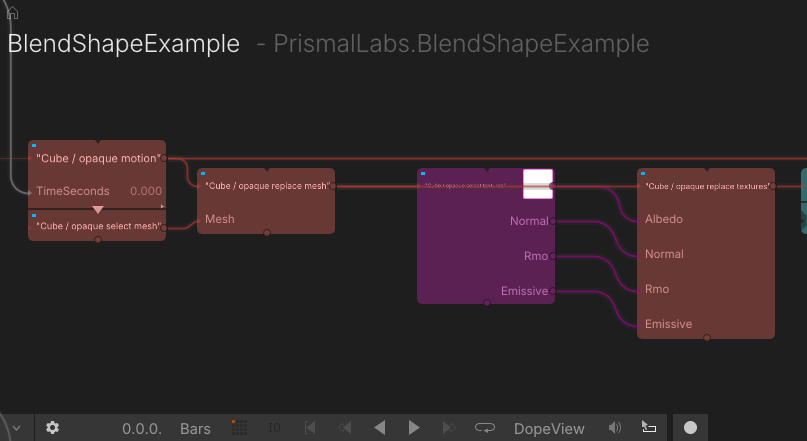
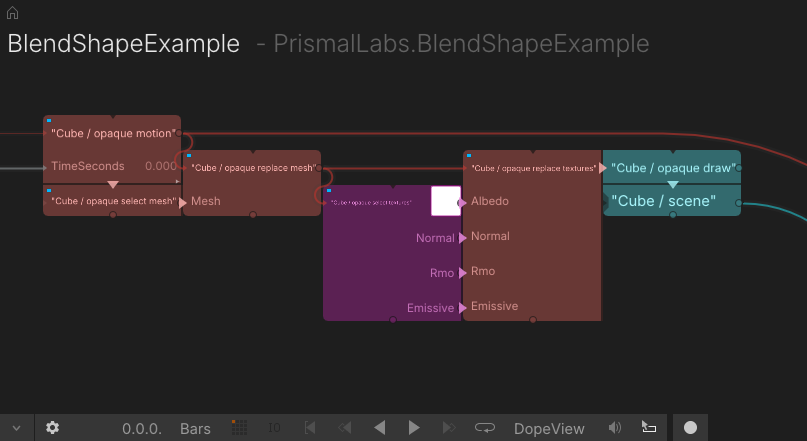
Use the grid-aligned portless BlendShapeExample home as the export template

Changed region(s): [[0.0, 0.2358, 1.0, 0.7959], [0.0, 0.0, 0.031, 0.0295]]

diff --git a/tests/test_home_layout.py b/tests/test_home_layout.py
@@ -5,6 +5,7 @@ from pathlib import Path
 import sys
 import tempfile
 import unittest
+from unittest.mock import patch, call
 
 sys.path.insert(0, str(Path(__file__).resolve().parents[1] / 'blender_tixl_bridge' / 'source'))
 from blend_sync_graph import generate
@@ -13,6 +14,21 @@ from blend_sync_layout import layout_home
 
 
 class HomeLayoutTest(unittest.TestCase):
+    def test_portless_project_opens_its_internal_output(self):
+        import blend_sync
+        with tempfile.TemporaryDirectory() as directory:
+            root = Path(directory)
+            symbols = root / 'PortlessHome' / 'Symbols'
+            symbols.mkdir(parents=True)
+            (symbols / 'PortlessHome.t3').write_text(json.dumps({
+                'Inputs': [], 'Children': [{'Id': 'internal-output', 'Name': 'Output target',
+                                           'SymbolName': 'Lib.image.generate.basic.RenderTarget'}]}))
+            with patch.object(blend_sync, 'TIXL_PROJECT', root / 'Operators'), \
+                    patch.object(blend_sync, 'bridge_call') as bridge:
+                blend_sync.open_project('PortlessHome')
+                self.assertEqual(bridge.call_args_list, [
+                    call('openProject', name='PortlessHome'), call('pin', childId='internal-output')])
+
     def test_dynamic_lanes_and_saved_layout(self):
         for count, glass, clips_per_world in ((1, False, 1), (4, False, 1), (7, True, 6)):
             with self.subTest(worlds=count, glass=glass), tempfile.TemporaryDirectory() as directory:
@@ -52,9 +68,26 @@ class HomeLayoutTest(unittest.TestCase):
                     self.assertEqual(load['Y'], motion['Y'])
                     if i:
                         self.assertGreaterEqual(load['Y'] - named[f'World {i-1} / opaque load']['Y'],
-                                                420 + (180 if glass else 0))
+                                                420 + (210 if glass else 0))
                     if glass:
-                        self.assertEqual(named[prefix + 'glass load']['Y'] - load['Y'], 180)
+                        self.assertEqual(named[prefix + 'glass load']['Y'] - load['Y'], 210)
+                self.assertEqual(home['Inputs'], [])
+                self.assertFalse(home.get('Outputs'))
+                self.assertEqual(ui['InputUis'], [])
+                self.assertEqual(ui['OutputUis'], [])
+                zero = '00000000-0000-0000-0000-000000000000'
+                self.assertFalse(any(zero in (edge['SourceParentOrChildId'],
+                                              edge['TargetParentOrChildId'])
+                                     for edge in home['Connections']))
+                resolution = next(child for child in home['Children'] if child['Name'] == 'Resolution')
+                self.assertEqual(sum(edge['SourceParentOrChildId'] == resolution['Id']
+                                     for edge in home['Connections']), 2)
+                for position in positions.values():
+                    self.assertEqual(position['X'] % 140, 0)
+                    self.assertEqual(position['Y'] % 35, 0)
+                source = path.with_suffix('.cs').read_text()
+                self.assertNotIn('[Input(', source)
+                self.assertNotIn('[Output(', source)
                 original = copy.deepcopy(home)
                 layout_home(home, ui, json.loads(files[3].read_text()),
                             json.loads(files[0].read_text())['Id'])

diff --git a/blender_tixl_bridge/source/blend_sync_project.py b/blender_tixl_bridge/source/blend_sync_project.py
@@ -595,6 +595,44 @@ def _editable_scene(graph: dict, ui: dict, source: str, name: str) -> tuple[dict
     return scene, scene_ui, scene_source
 
 
+def _make_portless_home(home: dict, ui: dict) -> None:
+    """Keep resolution inside the home; only generated import symbols expose ports."""
+    zero = "00000000-0000-0000-0000-000000000000"
+    template = json.loads((Path(__file__).resolve().parents[1] / "templates"
+                           / "home_resolution.json").read_text(encoding="utf-8"))
+    child = copy.deepcopy(template["child"])
+    child["Id"] = str(uuid.uuid5(uuid.NAMESPACE_URL, home["Id"] + "/resolution"))
+    width, height = template["default_resolution"]
+    for value in child["InputValues"]:
+        value["Value"] = width if value["Id"] == "579e72d6-638e-4b17-bb4e-88a55e3a1d4d" else height
+    input_ids = {item["Id"] for item in home.get("Inputs", [])}
+    connections = []
+    for edge in home["Connections"]:
+        if edge["TargetParentOrChildId"] == zero:
+            continue
+        if edge["SourceParentOrChildId"] == zero:
+            if edge["SourceSlotId"] not in input_ids:
+                raise ValueError("Unknown home input while creating portless home")
+            edge = {**edge, "SourceParentOrChildId": child["Id"],
+                    "SourceSlotId": template["output_slot"]}
+        connections.append(edge)
+    resolution_slot = "03749b41-cc3c-4f38-aea6-d7cea19fc073"
+    for target in home["Children"]:
+        if not target["SymbolName"].endswith(".RenderTarget"):
+            continue
+        if not any(edge["TargetParentOrChildId"] == target["Id"]
+                   and edge["TargetSlotId"] == resolution_slot for edge in connections):
+            connections.append(_connection(child["Id"], template["output_slot"],
+                                           target["Id"], resolution_slot))
+    home["Children"].append(child)
+    home["Connections"] = connections
+    home["Inputs"] = []
+    home.pop("Outputs", None)
+    ui["InputUis"] = []
+    ui["OutputUis"] = []
+    ui["SymbolChildUis"].append({"ChildId": child["Id"], "Position": {"X": 0, "Y": 0}})
+
+
 def populate(project: Path, graph_files: list[Path], backup_root: Path, editor: Path,
              build: bool = True) -> None:
     project = project.resolve()
@@ -682,6 +720,7 @@ def populate(project: Path, graph_files: list[Path], backup_root: Path, editor: 
                                     scene["Id"], scene_class, input_id, output_id)
         _flatten_scene(home, home_ui, scene_for_home, scene_ui_for_home)
         _link_world_clips(home, home_ui, plan, graph["Id"])
+        _make_portless_home(home, home_ui)
         from blend_sync_layout import layout_home
         layout_home(home, home_ui, plan, graph["Id"])
         source = f'''using T3.Core.Operator;
@@ -695,8 +734,6 @@ namespace PrismalLabs.{name};
 [Guid("{home_id}")]
 internal sealed class {name} : Instance<{name}>
 {{
-    [Input(Guid="{input_id}")] public readonly InputSlot<Int2> OutputResolution = new(new Int2(960, 540));
-    [Output(Guid="{output_id}")] public readonly Slot<Texture2D> Output = new();
 }}
 public sealed class ShareDefinition : IShareResources
 {{ public bool ShouldShareResources => true; }}

diff --git a/blender_tixl_bridge/source/blend_sync.py b/blender_tixl_bridge/source/blend_sync.py
@@ -233,11 +233,31 @@ def wait_for_editor_pause() -> None:
         time.sleep(0.5)
 
 
+def pin_home_output(name: str) -> None:
+    from blend_sync_project import _read_tixl_json
+    home_path = TIXL_PROJECT.parent / name / "Symbols" / f"{name}.t3"
+    if not home_path.is_file():
+        return
+    home = _read_tixl_json(home_path)
+    if home.get("Inputs") or home.get("Outputs"):
+        return
+    target = next((child for child in home["Children"]
+                   if child["Name"] == "Output target"
+                   and child["SymbolName"].endswith(".RenderTarget")), None)
+    if target:
+        bridge_call("pin", childId=target["Id"])
+
+
+def open_project(name: str) -> None:
+    bridge_call("openProject", name=name)
+    pin_home_output(name)
+
+
 def open_project_when_ready(name: str) -> None:
     last_error = None
     for _ in range(45):
         try:
-            bridge_call("openProject", name=name)
+            open_project(name)
             return
         except (OSError, ValueError, RuntimeError) as error:
             last_error = error
@@ -298,7 +318,9 @@ def generic_finish(blend: Path, cache: Path, manifest: dict, install: bool, refr
         if live and project_state.get("name"):
             context = bridge_call("getContext")
             if context.get("compositionName") != project_state["name"]:
-                bridge_call("openProject", name=project_state["name"])
+                open_project(project_state["name"])
+            elif context.get("outputView", {}).get("symbolName") == project_state["name"]:
+                pin_home_output(project_state["name"])
         return
     wait_for_editor_pause()
     # Probe the destination before interrupting an open TiXL session. In a
@@ -314,7 +336,7 @@ def generic_finish(blend: Path, cache: Path, manifest: dict, install: bool, refr
             bridge_call("reload", project=csproj.stem)
         ensure_generic_project(blend, cache, files, build=False)
         bridge_call("reload", project=project_state["name"])
-        bridge_call("openProject", name=project_state["name"])
+        open_project(project_state["name"])
         return
     was_running = stop_editor()
     success = False

diff --git a/blender_tixl_bridge/source/blend_sync_layout.py b/blender_tixl_bridge/source/blend_sync_layout.py
@@ -26,12 +26,14 @@ def layout_home(home: dict, ui: dict, plan: dict, import_id: str) -> None:
             # A clip spanning several worlds is placed once, beside its first lane.
             clip_rows.setdefault(index, y + offset * template['clip_spacing'])
         y += max(template['world_spacing'] + (template['pass_spacing'] if has_glass else 0),
-                 len(clip_indices) * template['clip_spacing'] + 220)
+                 len(clip_indices) * template['clip_spacing'] + 210)
+        y = snap_position((0, y), template['grid'])[1]
     bottom = max((row + (template['pass_spacing'] if label in glass_rows else 0)
                   for label, row in rows.items()), default=0)
 
     def place(entry, xy, offset=0):
-        entry['Position'] = {'X': xy[0], 'Y': xy[1] + offset}
+        x, y = snap_position((xy[0], xy[1] + offset), template['grid'])
+        entry['Position'] = {'X': x, 'Y': y}
 
     clip_positions = {str(uuid.uuid5(uuid.NAMESPACE_URL, import_id + f'/clip/{i}')): row
                       for i, row in clip_rows.items()}
@@ -51,7 +53,11 @@ def layout_home(home: dict, ui: dict, plan: dict, import_id: str) -> None:
         elif kind in template['render_roles']:
             role = 'Output target' if child['Name'] == 'Output target' else kind
             place(entry, template['render_roles'][role], bottom)
-    for entry in ui.get('InputUis', []):
-        place(entry, template['input'])
-    for entry in ui.get('OutputUis', []):
-        place(entry, template['output'], bottom)
+        else:
+            position = entry['Position']
+            place(entry, (position['X'], position['Y']))
+
+
+def snap_position(xy, grid=(140, 35)):
+    """Align new home nodes to TiXL's node width and socket line height."""
+    return tuple(round(value / step) * step for value, step in zip(xy, grid))

diff --git a/README.md b/README.md
@@ -76,6 +76,11 @@ source timing through mesh and texture edits to drawing. The world switch and
 render chain sit to the right. Rows expand for glass passes and additional
 clips. The defaults are defined in `blender_tixl_bridge/templates/home_layout.json`;
 sync preserves positions you rearrange in TiXL.
+New homes follow the grid-aligned `BlendShapeExample` layout using TiXL's
+140 × 35 node grid. They have no symbol input or output ports: an internal
+**Resolution** node drives both render targets. In debug mode the bridge pins
+**Output target** for the preview; in offline mode, select and pin that node in
+TiXL. The generated import symbol retains its ports for use inside other graphs.
 
 ## Release example
 
